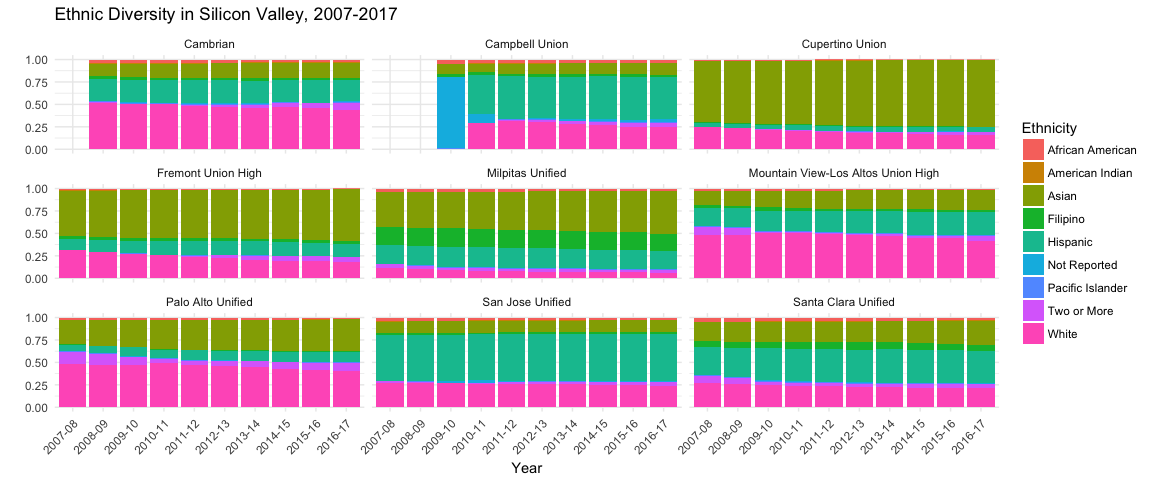
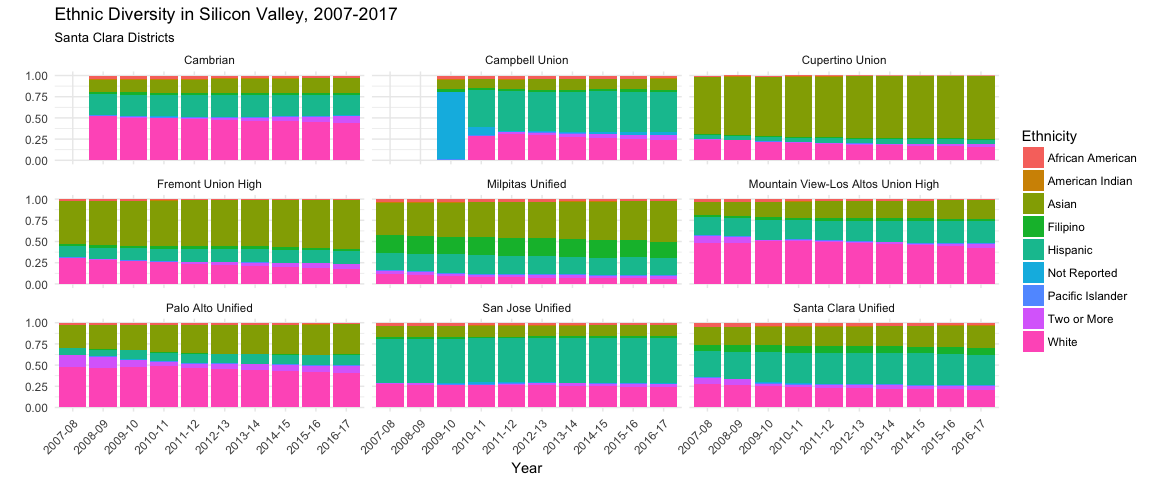
updated README

Changed region(s): [[0.0, 0.0625, 1.0, 0.8125], [0.3438, 0.0625, 0.875, 0.2188], [0.3125, 0.7812, 0.875, 0.8125]]

diff --git a/README.md b/README.md
@@ -126,6 +126,7 @@ enrollments %>%
   labs(x = "Year",
        y = "",
        title = "Ethnic Diversity in Silicon Valley, 2007-2017",
+       subtitle = "Santa Clara Districts",
        fill = "Ethnicity") +
   theme_minimal() +
   theme(axis.text.x = element_text(angle = 45, hjust = 1))
